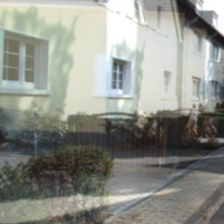
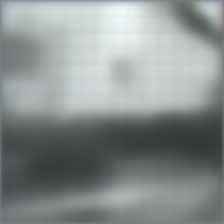
encode decode

diff --git a/src/directgen.py b/src/directgen.py
@@ -1,0 +1,131 @@
+import torch
+import torch.nn as nn
+import torch.optim as optim
+from torch.autograd import Variable
+from torch.utils.data import DataLoader
+from torch.utils.data import sampler
+
+import torchvision.datasets as dset
+import torchvision.transforms as T
+
+import numpy as np
+
+import timeit
+
+"""
+Example usage:
+ed = EncodeDecodeDirect()
+M1, M2, C = ed(im1, im2)
+"""
+class EncodeDecodeDirect(nn.Module):
+    def __init__(self):
+        super(EncodeDecodeDirect, self).__init__()
+
+        self.ec3 = nn.Sequential(
+                nn.Conv2d(6, 32, kernel_size=9, stride=1, padding=4),
+                nn.ReLU(inplace=True),
+                nn.MaxPool2d(kernel_size=3, stride=2, padding=1),
+                nn.Conv2d(32, 64, kernel_size=7, stride=1, padding=3),
+                nn.ReLU(inplace=True),
+                nn.MaxPool2d(kernel_size=3, stride=2, padding=1),
+                nn.Conv2d(64, 128, kernel_size=5, stride=1, padding=2),
+                nn.ReLU(inplace=True))
+
+        self.ec3feature = nn.Sequential(
+                nn.Conv2d(128, 64, kernel_size=1, stride=1),
+                nn.ReLU(inplace=True))
+
+        self.ec4 = nn.Sequential(
+                nn.MaxPool2d(kernel_size=3, stride=2, padding=1),
+                nn.Conv2d(128, 256, kernel_size=3, stride=1, padding=1),
+                nn.ReLU(inplace=True))
+
+        self.ec4feature = nn.Sequential(
+                nn.Conv2d(256, 128, kernel_size=1, stride=1),
+                nn.ReLU(inplace=True))
+
+        self.ec5 = nn.Sequential(
+                nn.MaxPool2d(kernel_size=3, stride=2, padding=1),
+                nn.Conv2d(256, 512, kernel_size=3, stride=1, padding=1),
+                nn.ReLU(inplace=True))
+
+        self.ec5feature = nn.Sequential(
+                nn.Conv2d(512, 256, kernel_size=1, stride=1),
+                nn.ReLU(inplace=True))
+
+        self.ec6 = nn.Sequential(
+                nn.MaxPool2d(kernel_size=3, stride=2, padding=1),
+                nn.Conv2d(512, 1024, kernel_size=1, stride=1),
+                nn.ReLU(inplace=True))
+
+        self.vc3sig = nn.Sequential(
+                nn.Conv2d(1024, 1024, kernel_size=1, stride=1),
+                nn.ReLU(inplace=True),
+                nn.Conv2d(1024, 1024, kernel_size=1, stride=1),
+                nn.ReLU(inplace=True),
+                nn.ConvTranspose2d(1024, 512, kernel_size=4, stride=2, padding=1, dilation=2),
+                nn.ReLU(inplace=True),
+                nn.ConvTranspose2d(512, 256, kernel_size=4, stride=2, padding=1, dilation=2),
+                nn.ReLU(inplace=True),
+                nn.ConvTranspose2d(256, 128, kernel_size=4, stride=2, padding=1, dilation=2),
+                nn.ReLU(inplace=True),
+                nn.ConvTranspose2d(128, 64, kernel_size=4, stride=2, padding=1, dilation=2),
+                nn.ReLU(inplace=True),
+                nn.ConvTranspose2d(64, 32, kernel_size=4, stride=2, padding=1, dilation=2),
+                nn.ReLU(inplace=True),
+                nn.Conv2d(32, 1, kernel_size=3, stride=1, padding=1),
+                nn.Sigmoid())
+
+        self.cd1 = nn.Sequential(
+                nn.Conv2d(1024, 2048, kernel_size=1, stride=1),
+                nn.ReLU(inplace=True),
+                nn.Conv2d(2048, 2048, kernel_size=1, stride=1),
+                nn.ReLU(inplace=True),
+                nn.ConvTranspose2d(2048, 768, kernel_size=4, stride=2, padding=1, dilation=2),
+                nn.ReLU(inplace=True))
+
+        self.cd2 = nn.Sequential(
+                nn.ConvTranspose2d(1024, 384, kernel_size=4, stride=2, padding=1, dilation=2),
+                nn.ReLU(inplace=True)
+                )
+
+        self.cd3 = nn.Sequential(
+                nn.ConvTranspose2d(512, 192, kernel_size=4, stride=2, padding=1, dilation=2),
+                nn.ReLU(inplace=True)
+                )
+
+        self.cc3 = nn.Sequential(
+                nn.ConvTranspose2d(256, 128, kernel_size=4, stride=2, padding=1, dilation=2),
+                nn.ReLU(inplace=True),
+                nn.ConvTranspose2d(128, 64, kernel_size=4, stride=2, padding=1, dilation=2),
+                nn.ReLU(inplace=True),
+                nn.Conv2d(64, 3, kernel_size=3, stride=1, padding=1)
+                )
+
+
+    def forward(self, im):
+        #concat = torch.cat((im1, im2), dim=1)
+        ec3 = self.ec3(im)
+        #print(ec3.size())
+        ec4 = self.ec4(ec3)
+        #print(ec4.size())
+        ec5 = self.ec5(ec4)
+        #print(ec5.size())
+        ec6 = self.ec6(ec5)
+
+        #M1 = self.vc3sig(ec6)
+        # already a sigmoid
+
+        cd1 = self.cd1(ec6)
+        ec5feature = self.ec5feature(ec5)
+        #print(cd1.size(), ec5.size(), ec5feature.size())
+        cd1ec5feature = torch.cat((cd1, ec5feature), dim=1)
+        cd2 = self.cd2(cd1ec5feature)
+        ec4feature = self.ec4feature(ec4)
+        cd2ec4feature = torch.cat((cd2, ec4feature), dim=1)
+        cd3 = self.cd3(cd2ec4feature)
+        ec3feature = self.ec3feature(ec3)
+        cd3ec3feature = torch.cat((cd3, ec3feature), dim=1)
+        C = self.cc3(cd3ec3feature)
+
+        return C, 0

diff --git a/src/run_model.py b/src/run_model.py
@@ -20,6 +20,7 @@ import numpy as np
 from normalizer import normalize, denorm
 from encodedecode import EncodeDecode
 from viewmorphing import ViewMorphing
+from directgen import EncodeDecodeDirect
 
 NUM_TRAIN = 16000
 NUM_VAL = 16
@@ -30,7 +31,7 @@ PRINT_EVERY = 10
 
 NUM_EPOCHS = 1
 DROPOUT = 0.15
-INIT_LR = 1e-4
+INIT_LR = 1e-5
 is_local = False
 
 dtype=torch.cuda.FloatTensor
@@ -157,13 +158,16 @@ def evaluate(model, dev_data, loss_fn):
 
 class L2Loss(torch.nn.Module):
     def forward(self, y_pred, y_true):
-        return torch.mean(torch.sum((y_pred - y_true) **2, dim=0))
+        diffsq = (y_pred - y_true) **2
+        return torch.mean(torch.sum(diffsq.view((-1, 224*224*3)), dim=1))
 
 def run_model(train_data, val_data, test_data):
-    model = nn.Sequential (
+    '''model = nn.Sequential (
         EncodeDecode(),
         ViewMorphing()
-    ).type(dtype)
+    ).type(dtype)'''
+
+    model = EncodeDecodeDirect().type(dtype)
     
     loss_fn = L2Loss()
     #optimizer = torch.optim.SGD(model.parameters(), lr=INIT_LR, momentum=0.9) 
